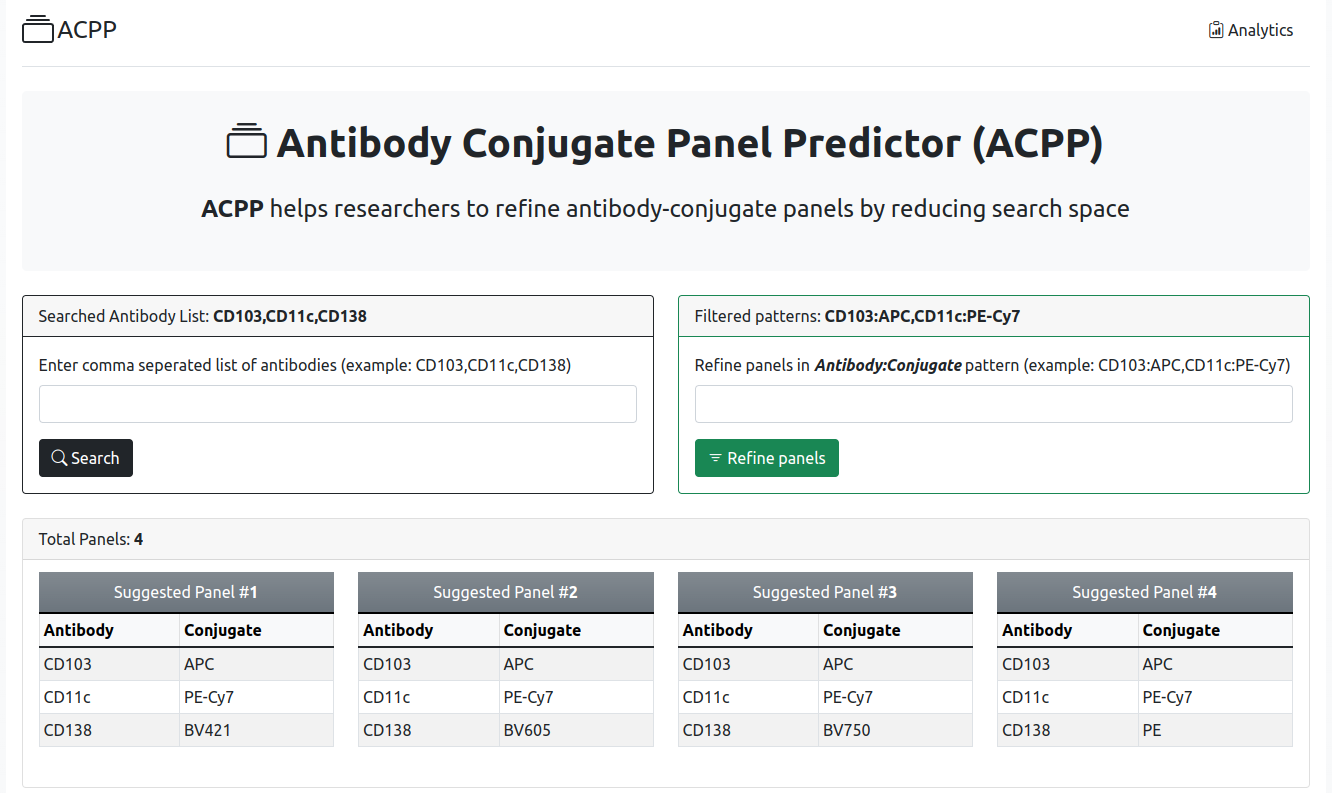
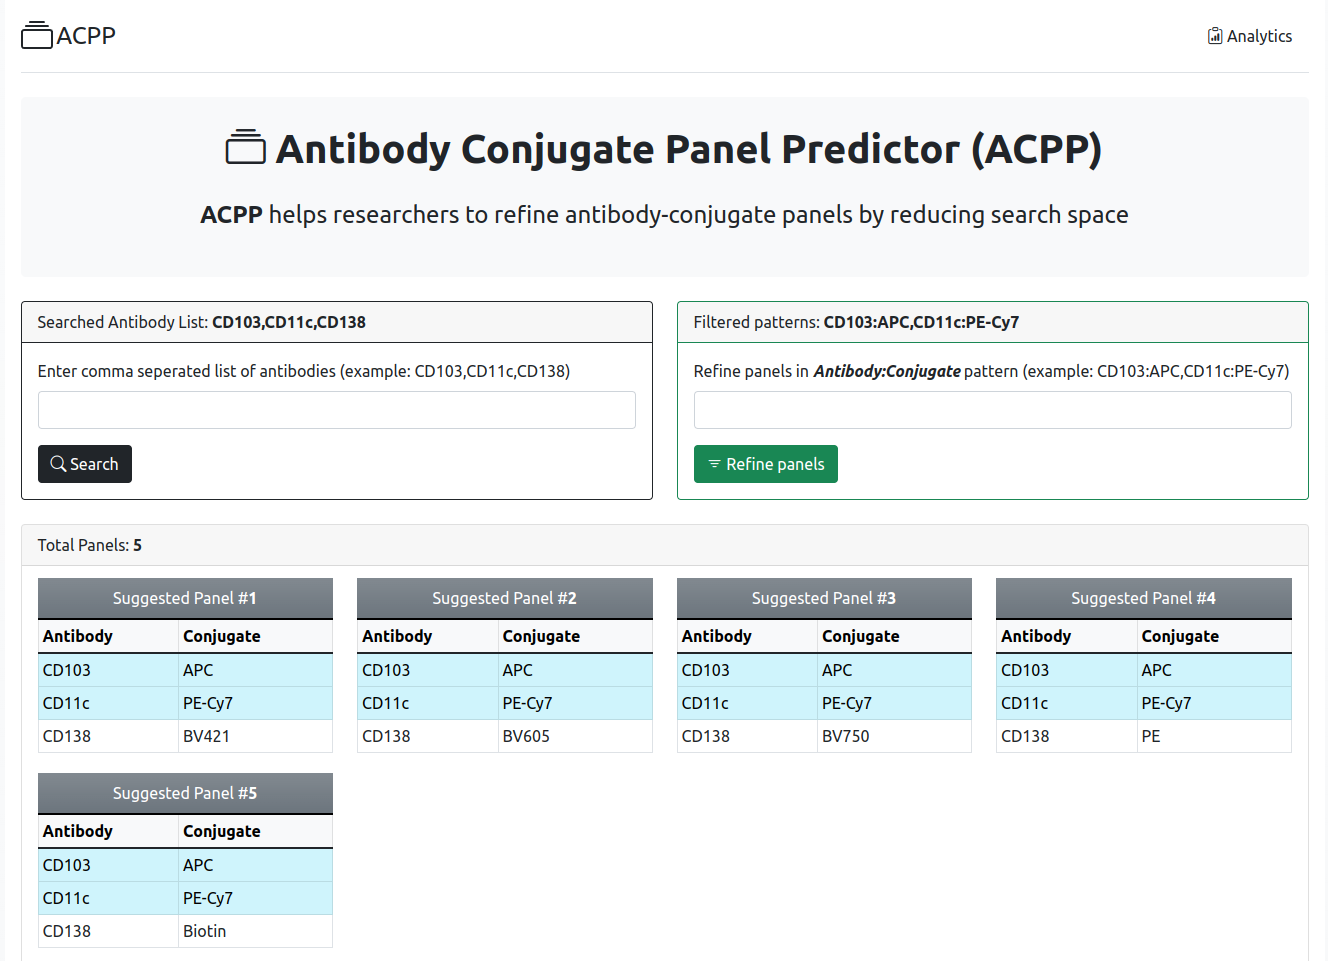
added error check and pattern highlight

diff --git a/templates/index.html b/templates/index.html
@@ -91,6 +91,51 @@
     </div>
     {% endif %}
 </div>
+
+<div>
+    {% with errors = get_flashed_messages(category_filter=["error"]) %}
+    {% if errors %}
+    <div class="alert alert-danger" role="alert">
+        <h4 class="alert-heading">Error!</h4>
+        <ul class="list-group list-group-flush">
+            {%- for msg in errors %}
+            <li class="list-group-item">{{ msg|safe }}</li>
+            {% endfor -%}
+        </ul>
+    </div>
+    {% endif %}
+    {% endwith %}
+</div>
+<div>
+    {% with warnings = get_flashed_messages(category_filter=["warning"]) %}
+    {% if warnings %}
+    <div class="alert alert-warning" role="alert">
+        <h4 class="alert-heading">Warning!</h4>
+        <ul class="list-group list-group-flush">
+            {%- for msg in warnings %}
+            <li class="list-group-item">{{ msg|safe }}</li>
+            {% endfor -%}
+        </ul>
+    </div>
+    {% endif %}
+    {% endwith %}
+</div>
+<div>
+    {% with success_msg = get_flashed_messages(category_filter=["success"]) %}
+    {% if success_msg %}
+    <div class="alert alert-success" role="alert">
+        <h4 class="alert-heading">Success!</h4>
+        <ul class="list-group list-group-flush">
+            {%- for msg in success_msg %}
+            <li class="list-group-item">{{ msg|safe }}</li>
+            {% endfor -%}
+        </ul>
+    </div>
+    {% endif %}
+    {% endwith %}
+</div>
+
+
 {% if panels %}
 {% from 'macros/panel_macro.html' import panel_macro %}
 {{ panel_macro(panels,old_patterns,searched_antibody) }}

diff --git a/templates/macros/panel_macro.html b/templates/macros/panel_macro.html
@@ -9,7 +9,7 @@
         <div class="row">
             {% for panel in panels %}
             <div class="col-3">
-                <table class="table table-sm table-bordered table-striped caption-top mb-4">
+                <table class="table table-sm table-bordered caption-top mb-4">
                     <caption
                             class="card-subtitle text-center mb-0 bg-secondary bg-gradient text-white">
                         Suggested Panel #<b>{{ loop.index }}</b>
@@ -22,7 +22,12 @@
                     </thead>
                     <tbody>
                     {% for key, value in panel.items() %}
+                    {% set current_pattern = [key, ':', value]|join %}
+                    {% if current_pattern in old_patterns %}
+                    <tr class="table-info">
+                    {% else %}
                     <tr>
+                    {% endif %}
                         <td>{{ key }}</td>
                         <td>{{ value }}</td>
                     </tr>

diff --git a/app.py b/app.py
@@ -4,34 +4,47 @@ from flask import Flask, render_template, request, jsonify, url_for, redirect, \
 from controller import get_initial_panels, get_filtered_panels
 
 app = Flask(__name__)
+app.secret_key = b'_5#y2L"F4Q8z\n\xec]/'
 
 
 @app.route('/', methods=["GET", "POST"])
 def index():
     if request.method == "POST":
-        if "primary_form" in request.form:
-            antibody = request.form["antibody"].strip()
-            print(antibody)
-            antibodies = [s.strip() for s in antibody.split(",")]
-            panels = get_initial_panels(antibodies)
-            return render_template('index.html', panels=panels,
-                                   old_patterns="", searched_antibody=antibody)
-        elif "secondary_form" in request.form:
-            panels = json.loads(request.form["old_panels"].replace("\'", "\""))
-            old_patterns = request.form["old_patterns"].strip()
-            patterns = request.form["patterns"].strip()
-            searched_antibody = request.form["searched_antibody"].strip()
-            if old_patterns != "":
-                old_patterns = old_patterns + "," + patterns
-            else:
-                old_patterns = patterns
-            patterns = patterns.split(",")
-            criteria = []
-            for pattern in patterns:
-                antibody, conjugate = pattern.split(":")
-                criteria.append((antibody.strip(), conjugate.strip()))
-            panels = get_filtered_panels(panels, criteria)
-            return render_template('index.html', panels=panels,
-                                   old_patterns=old_patterns,
-                                   searched_antibody=searched_antibody)
-    return render_template('index.html')
+        try:
+            if "primary_form" in request.form:
+                # flash("Primary form submitted", "success")
+                antibody = request.form["antibody"].strip()
+                antibodies = [s.strip() for s in antibody.split(",")]
+                panels, not_found = get_initial_panels(antibodies)
+                for item in not_found:
+                    flash(f"Antibody <b>{item}</b> not found", "warning")
+                return render_template('index.html', panels=panels,
+                                       old_patterns="",
+                                       searched_antibody=antibody)
+            elif "secondary_form" in request.form:
+                # flash("Secondary form submitted", "success")
+                panels = json.loads(
+                    request.form["old_panels"].replace("\'", "\""))
+                old_patterns = request.form["old_patterns"].strip()
+                patterns = request.form["patterns"].strip()
+                searched_antibody = request.form["searched_antibody"].strip()
+                if ":" not in patterns:
+                    exception_msg = "Pattern is not correct. Correct pattern "
+                    exception_msg += "<i><b>Antibody:Conjugate</b></i>"
+                    raise Exception(exception_msg)
+                if old_patterns != "":
+                    old_patterns = old_patterns + "," + patterns
+                else:
+                    old_patterns = patterns
+                panels, not_found_patterns = get_filtered_panels(panels,
+                                                                 patterns)
+                for item in not_found_patterns:
+                    flash(f"Pattern <b>{item}</b> not found", "warning")
+                return render_template('index.html', panels=panels,
+                                       old_patterns=old_patterns,
+                                       searched_antibody=searched_antibody)
+        except Exception as ex:
+            flash(str(ex), "error")
+            return redirect(url_for("index"))
+    else:
+        return render_template('index.html')

diff --git a/controller.py b/controller.py
@@ -1,5 +1,4 @@
 import os
-import json
 import itertools
 import pandas as pd
 
@@ -27,8 +26,6 @@ def get_search_results(data, search_items):
     for antibody in search_items:
         if antibody in data:
             search_results[antibody] = data[antibody]
-        else:
-            return None
     keys = search_results.keys()
     values = search_results.values()
     panels = []
@@ -38,18 +35,30 @@ def get_search_results(data, search_items):
         unique_value_length = len(set(panel.values()))
         if unique_value_length == key_length and panel not in panels:
             panels.append(panel)
-    return panels
+    not_found_antibody = list(set(search_items).difference(set(keys)))
+    return panels, not_found_antibody
 
 
-def get_filtered_panels(panels, criterions):
-    for criteria in criterions:
-        panels = [panel for panel in panels if criteria in panel.items()]
-    return panels
+def get_filtered_panels(panels, patterns):
+    patterns = patterns.split(",")
+    pairs = []
+    not_found_patterns = []
+    for pattern in patterns:
+        antibody, conjugate = pattern.split(":")
+        pairs.append((antibody.strip(), conjugate.strip()))
+    for pair in pairs:
+        temp_panels = [panel for panel in panels if pair in panel.items()]
+        if len(temp_panels) == 0:
+            not_found_patterns.append(",".join(pair))
+        else:
+            panels = temp_panels
+    return panels, not_found_patterns
 
 
 def get_anitibody_data():
     folder = "data"
-    data_file = "inventory_small.xlsx"
+    # data_file = "inventory_small.xlsx"
+    data_file = "inventory.xlsx"
     data = read_data(os.path.join(folder, data_file))
     return data
 
@@ -57,26 +66,5 @@ def get_anitibody_data():
 def get_initial_panels(search_items):
     data = get_anitibody_data()
     # CD103,CD11c,CD138
-    # search_items = ["CD103", "CD11c", "CD138"]
-    # # search_items = ["CD103", "CD138"]
-    # # ["CD4", "CD8", "CD19", "CD38"]
     panels = get_search_results(data, search_items)
     return panels
-
-
-if __name__ == "__main__":
-    while True:
-        user_msg = "Enter number of conditions (0 to exit): "
-        number_of_criterias = int(input(user_msg))
-        if number_of_criterias == 0:
-            print("Program terminated\n")
-            break
-        criteria = []
-        print("Enter condition in \"Antibody:Conjugate\" pattern "
-              "(e.g. CD103:APC)")
-        for i in range(number_of_criterias):
-            condition = input(f"Enter condition #{i + 1}: ")
-            antibody, conjugate = condition.split(":")
-            criteria.append((antibody.strip(), conjugate.strip()))
-        panels = get_filtered_panels(panels, criteria)
-        print("")
